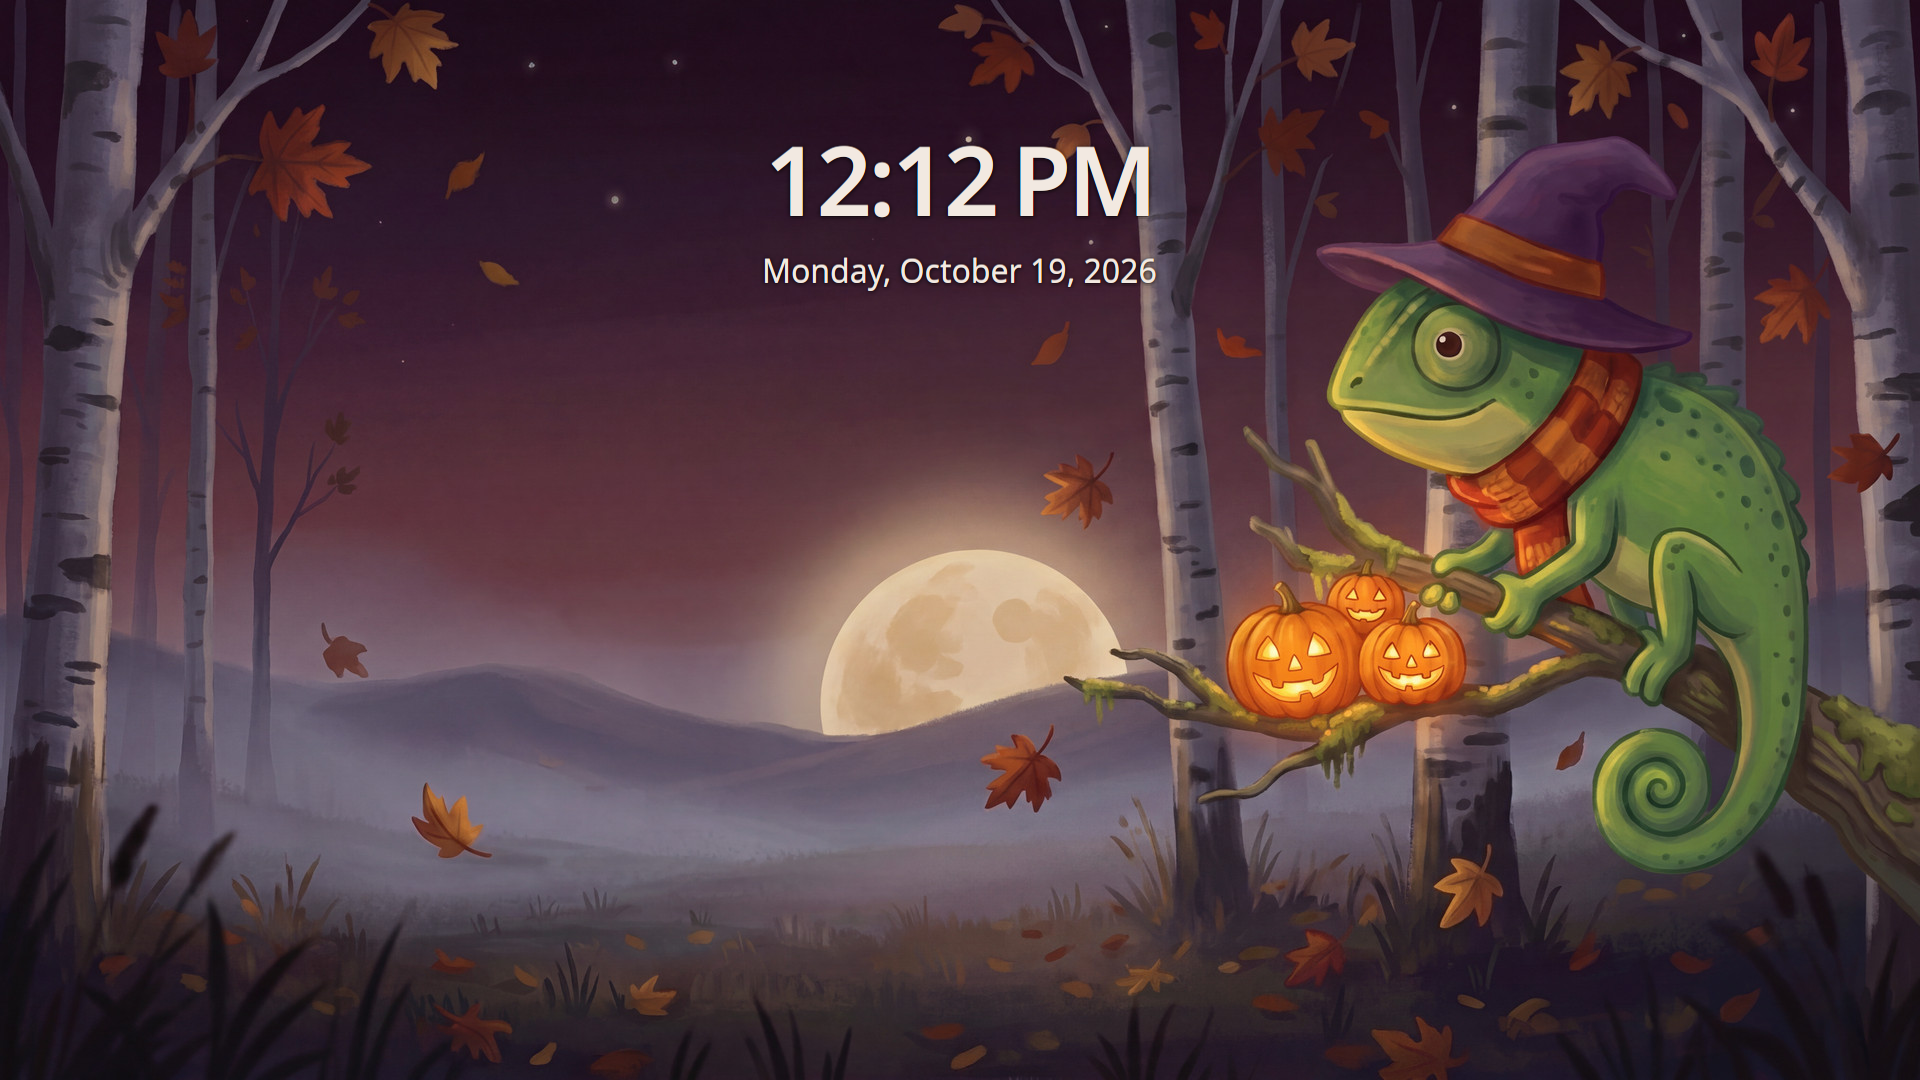
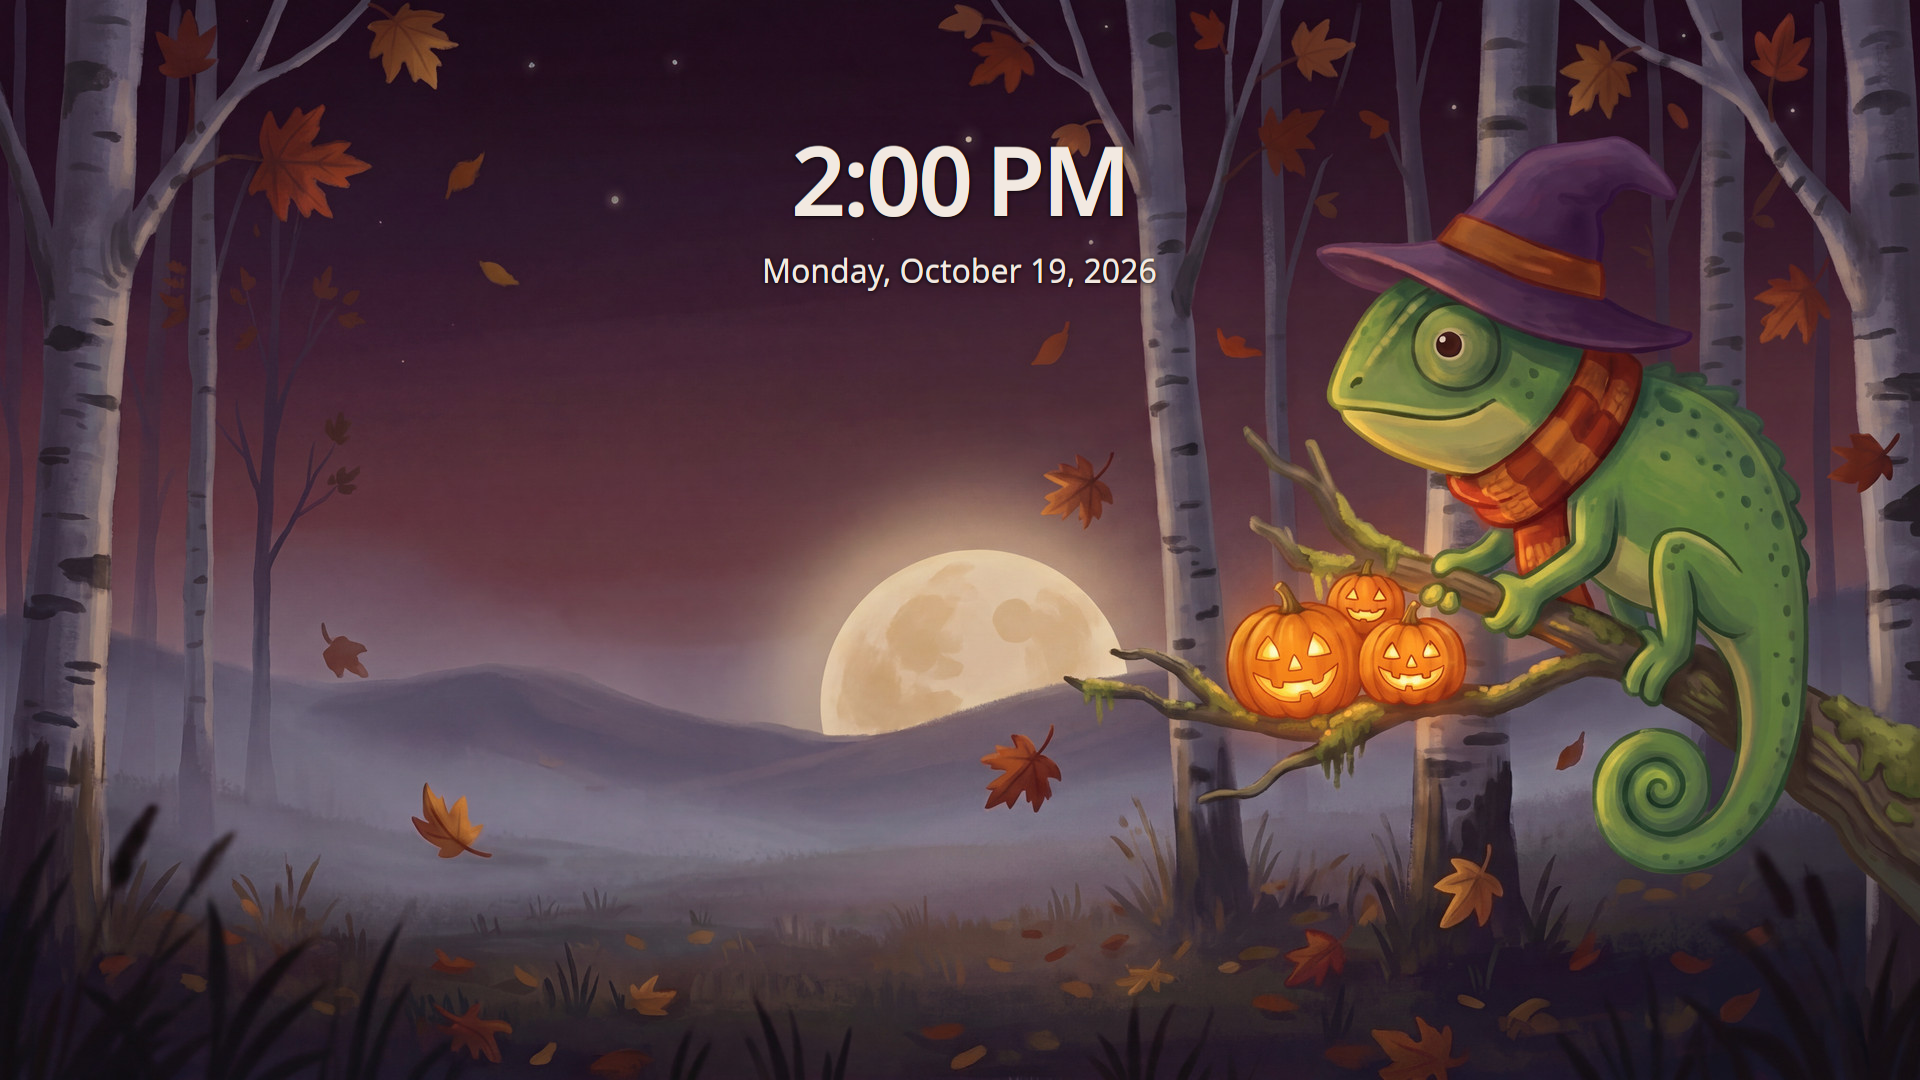
Retake the README gallery to show the design review's changes
The gallery comes from the test VM with this build: the night picture as
the hero and dusk in the gallery, the pumpkin clock in the empty sky
instead of over the chameleon, Firefox on a dark Wikipedia page about
pumpkins instead of a white page, GNOME's app grid with the new icons in
place of the stock GDM screen, and the Xfce Settings Manager with the
settings pumpkins. vm.sh gets a point command, so the pointer can rest
where it shows no tooltip.

Changed region(s): [[0.4062, 0.1222, 0.625, 0.2139]]

diff --git a/tools/dev/vm/qmp.py b/tools/dev/vm/qmp.py
@@ -3,7 +3,7 @@
 # SPDX-License-Identifier: GPL-2.0-or-later
 """Talk to the test VM's QEMU monitor (QMP), for vm.sh.
 
-usage: qmp.py SOCKET shot FILE.png | key KEY... | click X Y | quit
+usage: qmp.py SOCKET shot FILE.png | key KEY... | point X Y | click X Y | quit
 Keys are QEMU qcodes (esc, ret, meta_l, s, …); X Y are pixels of the VM's
 display ($HALLOWEEN_VM_RES, 1920x1080 by default), sent through its USB tablet.
 """
@@ -38,11 +38,11 @@ def main():
         cmd("screendump", filename=args[0], format="png")
     elif what == "key":
         cmd("send-key", keys=[{"type": "qcode", "data": k} for k in args])
-    elif what == "click":
+    elif what in ("point", "click"):
         x, y = (round(int(v) / size * 32767) for v, size in zip(args, (WIDTH, HEIGHT), strict=True))
         cmd("input-send-event", events=[{"type": "abs", "data": {"axis": "x", "value": x}},
                                         {"type": "abs", "data": {"axis": "y", "value": y}}])
-        for down in (True, False):
+        for down in (True, False) if what == "click" else ():
             cmd("input-send-event", events=[{"type": "btn", "data": {"down": down, "button": "left"}}])
     elif what == "quit":
         cmd("quit")

diff --git a/tools/previews.py b/tools/previews.py
@@ -28,8 +28,8 @@ TARGETS = {
 # README images: (screenshot, width). The hero is full width, the gallery
 # shows two per row.
 WEB = {
-    "desktop.jpg": ("desktop-light.png", 1600),
-    "desktop-night.jpg": ("desktop-dark.png", 960),
+    "desktop.jpg": ("desktop-dark.png", 1600),
+    "desktop-dusk.jpg": ("desktop-light.png", 960),
     "launcher.jpg": ("kickoff.png", 960),
     "dolphin.jpg": ("dolphin.png", 960),
     "file-types.jpg": ("dolphin-file-types.png", 960),
@@ -39,8 +39,8 @@ WEB = {
     "clock.jpg": ("clock.png", 960),
     "firefox.jpg": ("firefox.png", 960),
     "gnome.jpg": ("gnome.png", 960),
+    "gnome-apps.jpg": ("gnome-apps.png", 960),
     "xfce.jpg": ("xfce.png", 960),
-    "gdm.jpg": ("gdm.png", 960),
 }
 
 

diff --git a/README.md b/README.md
@@ -5,28 +5,28 @@ and Xfce: warm candle-lit colours, falling leaves, carved pumpkins and a
 friendly chameleon in a witch hat.
 
 [![Check](https://github.com/plusky/halloween-openSUSE/actions/workflows/check.yml/badge.svg?branch=main)](https://github.com/plusky/halloween-openSUSE/actions/workflows/check.yml)
-[![Licence: multiple (REUSE)](https://img.shields.io/badge/licence-multiple_(REUSE)-blue)](#licence)
-[![KDE Plasma 6.8+](https://img.shields.io/badge/KDE_Plasma-6.8%2B-1d99f3)](https://kde.org/plasma-desktop/)
-[![GNOME 50+](https://img.shields.io/badge/GNOME-50%2B-4a86cf)](https://www.gnome.org/)
-[![Xfce 4.20+](https://img.shields.io/badge/Xfce-4.20%2B-2284f2)](https://www.xfce.org/)
-[![openSUSE Tumbleweed](https://img.shields.io/badge/openSUSE-Tumbleweed-73ba25)](https://get.opensuse.org/tumbleweed/)
+[![Licence: multiple (REUSE)](https://img.shields.io/badge/licence-multiple_(REUSE)-a77bca?labelColor=1c1622)](#licence)
+[![KDE Plasma 6.8+](https://img.shields.io/badge/KDE_Plasma-6.8%2B-e8751a?labelColor=1c1622)](https://kde.org/plasma-desktop/)
+[![GNOME 50+](https://img.shields.io/badge/GNOME-50%2B-e8751a?labelColor=1c1622)](https://www.gnome.org/)
+[![Xfce 4.20+](https://img.shields.io/badge/Xfce-4.20%2B-e8751a?labelColor=1c1622)](https://www.xfce.org/)
+[![openSUSE Tumbleweed](https://img.shields.io/badge/openSUSE-Tumbleweed-f0b429?labelColor=1c1622)](https://get.opensuse.org/tumbleweed/)
 
-<img src="docs/screenshots/desktop.jpg" width="100%" alt="KDE Plasma desktop with a storybook wallpaper: a green chameleon in a purple witch hat and striped scarf sits on a mossy branch beside three glowing jack-o'-lanterns, birch trees and a rising harvest moon at dusk. The panel at the bottom shows the chameleon launcher and pumpkin-orange app icons.">
+<img src="docs/screenshots/desktop.jpg" width="100%" alt="KDE Plasma desktop with a storybook wallpaper at night: a green chameleon in a purple witch hat and striped scarf sits on a mossy branch beside three glowing jack-o'-lanterns, under a full moon among birch trees. The panel at the bottom shows the chameleon launcher and pumpkin-orange app icons.">
 
 | | |
 |---|---|
 | <img src="docs/screenshots/launcher.jpg" alt="The application launcher in dark plum colours, with Halloween icons for apps, categories and power actions"> | <img src="docs/screenshots/dolphin.jpg" alt="Dolphin file manager with orange folders, each carrying an emblem such as a scroll, an acorn or a film reel"> |
 | App launcher | Dolphin with the folder icons |
-| <img src="docs/screenshots/desktop-night.jpg" alt="The same wallpaper at night, with stars and the lanterns glowing"> | <img src="docs/screenshots/login.jpg" alt="Login screen over a blurred night version of the wallpaper"> |
-| The wallpaper at night | Login screen (SDDM) |
+| <img src="docs/screenshots/desktop-dusk.jpg" alt="The same wallpaper at dusk, with a rising harvest moon"> | <img src="docs/screenshots/login.jpg" alt="Login screen over a blurred night version of the wallpaper"> |
+| The wallpaper at dusk | Login screen (SDDM) |
 | <img src="docs/screenshots/file-types.jpg" alt="Dolphin showing file icons: cream pages with pumpkin emblems for text, PDF, images, music, video, archives, web pages and scripts"> | <img src="docs/screenshots/firefox.jpg" alt="Firefox with plum toolbars and the moonlit forest behind the tabs"> |
 | File types | Firefox theme |
 | <img src="docs/screenshots/splash.jpg" alt="Splash screen: the chameleon hugging a jack-o'-lantern above five small lanterns lighting up one by one"> | <img src="docs/screenshots/clock.jpg" alt="An analog clock widget with a carved pumpkin face on the desktop"> |
 | Splash screen | Pumpkin clock |
-| <img src="docs/screenshots/gnome.jpg" alt="GNOME with the night wallpaper: Files shows orange folders with emblems, and the quick settings menu has plum panels with ember-orange toggles"> | <img src="docs/screenshots/xfce.jpg" alt="Xfce with the night wallpaper: Thunar in dark plum with orange folders, plum window title bar, a dark panel with a pumpkin task button and a Halloween notification"> |
+| <img src="docs/screenshots/gnome.jpg" alt="GNOME with the night wallpaper: Files shows orange folders with emblems, and the quick settings menu has plum panels with ember-orange toggles"> | <img src="docs/screenshots/xfce.jpg" alt="Xfce with the night wallpaper: the Settings Manager in dark plum, each setting a glyph carved into a pumpkin, a plum window title bar, a dark panel and a Halloween notification"> |
 | GNOME | Xfce |
-| <img src="docs/screenshots/lockscreen.jpg" alt="The Plasma lock screen: a large clock over the night wallpaper with the chameleon and lanterns"> | <img src="docs/screenshots/gdm.jpg" alt="The GNOME login screen in its dark style, with an orange focus ring on the user name field"> |
-| Lock screen (Plasma) | Login screen (GDM) |
+| <img src="docs/screenshots/lockscreen.jpg" alt="The Plasma lock screen: a large clock over the night wallpaper with the chameleon and lanterns"> | <img src="docs/screenshots/gnome-apps.jpg" alt="GNOME's app grid over the night wallpaper: calculator, clocks, maps, mail, music and the other apps in the theme's flat autumn style"> |
+| Lock screen (Plasma) | GNOME apps |
 
 ## What's included
 
@@ -36,7 +36,7 @@ friendly chameleon in a witch hat.
 | Plasma style: autumn colours, leaf sprig on popups, ember tooltip glow, pumpkin clock | `openSUSE-halloween` | Plasma |
 | Colour scheme | `openSUSEHalloween` | Plasma and KDE apps |
 | Global theme with a pumpkin splash screen | `org.openSUSE.halloween.desktop` | Plasma |
-| Icon theme over Breeze Dark: folders, file types, drives, trash, the common apps (files, terminal, settings, editor, image viewer, software, system monitor, archives, scanner, screenshots, also for GNOME's and Xfce's own apps), a web-browser icon (also for Firefox), app-menu and power icons | `openSUSE-halloween` | Plasma |
+| Icon theme over Breeze Dark: folders, file types, drives and devices, trash, the apps KDE, GNOME and Xfce ship by default (files, terminal, settings, editor, calculator, clocks, mail, maps, music, videos and more) and YaST, settings dialogs as glyphs carved into pumpkins, a web-browser icon (also for Firefox), app-menu and power icons | `openSUSE-halloween` | Plasma |
 | The same icons over Adwaita | `openSUSE-halloween-adwaita` | GNOME, Xfce |
 | GTK 3 theme: night colours with ember and pumpkin accents, built on [adw-gtk3](https://github.com/lassekongo83/adw-gtk3) | `openSUSE-halloween` | GNOME, Xfce, GTK 3 apps |
 | GNOME Shell theme: top bar, menus, quick settings, calendar | `openSUSE-halloween` | GNOME with the User Themes extension |
